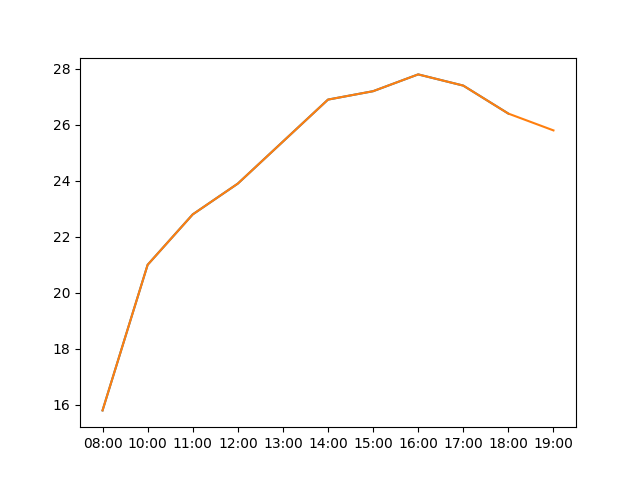
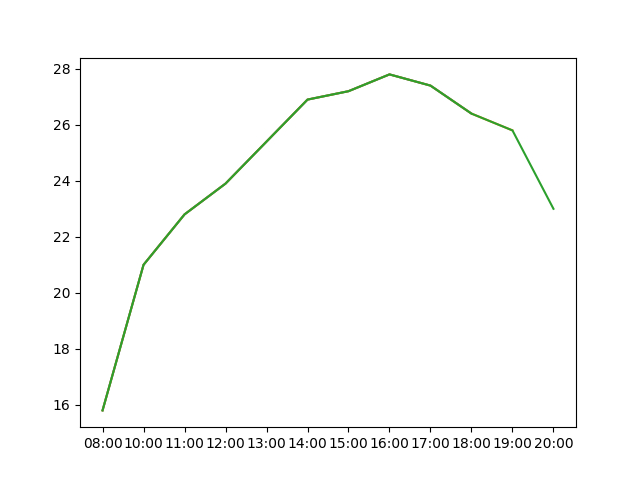
'updated'

diff --git a/index.html b/index.html
@@ -1,2 +1,2 @@
 <img src='graph.png'> 
-<table border="1"><tr><th>data</th><td><table border="1"><thead><tr><th>date</th><th>hour</th><th>weather</th><th>visibility</th><th>temp</th><th>unk</th><th>humidity</th><th>wind</th><th>pressure</th></tr></thead><tbody><tr><td>03-Abril-2021</td><td>08:00</td><td>Algo nublado con banco delgado de niebla</td><td>8 km</td><td>15.8</td><td>No se calcula</td><td>92.0</td><td>Sur  3</td><td>1014.5</td></tr><tr><td>03-Abril-2021</td><td>10:00</td><td>Despejado</td><td>15 km</td><td>21.0</td><td>No se calcula</td><td>71.0</td><td>Noreste  11</td><td>1014.8</td></tr><tr><td>03-Abril-2021</td><td>11:00</td><td>Despejado</td><td>15 km</td><td>22.8</td><td>No se calcula</td><td>66.0</td><td>Este  5</td><td>1014.6</td></tr><tr><td>03-Abril-2021</td><td>12:00</td><td>Algo nublado</td><td>15 km</td><td>23.9</td><td>No se calcula</td><td>61.0</td><td>Noreste  7</td><td>1014.2</td></tr><tr><td>03-Abril-2021</td><td>13:00</td><td>Algo nublado</td><td>15 km</td><td>25.4</td><td>No se calcula</td><td>55.0</td><td>Este  5</td><td>1013.6</td></tr><tr><td>03-Abril-2021</td><td>14:00</td><td>Algo nublado</td><td>15 km</td><td>26.9</td><td>27.3</td><td>49.0</td><td>Noreste  5</td><td>1012.8</td></tr><tr><td>03-Abril-2021</td><td>15:00</td><td>Algo nublado</td><td>15 km</td><td>27.2</td><td>26.4</td><td>42.0</td><td>Noreste  13</td><td>1012.0</td></tr><tr><td>03-Abril-2021</td><td>16:00</td><td>Algo nublado</td><td>15 km</td><td>27.8</td><td>No se calcula</td><td>36.0</td><td>Sudeste  9</td><td>1011.4</td></tr><tr><td>03-Abril-2021</td><td>17:00</td><td>Algo nublado</td><td>15 km</td><td>27.4</td><td>No se calcula</td><td>38.0</td><td>Este  7</td><td>1011.3</td></tr><tr><td>03-Abril-2021</td><td>18:00</td><td>Despejado</td><td>15 km</td><td>26.4</td><td>No se calcula</td><td>39.0</td><td>Sur  9</td><td>1011.3</td></tr><tr><td>03-Abril-2021</td><td>19:00</td><td>Despejado</td><td>15 km</td><td>25.8</td><td>No se calcula</td><td>43.0</td><td>Calma</td><td>1011.4</td></tr></tbody></table></td></tr></table>
+<table border="1"><tr><th>data</th><td><table border="1"><thead><tr><th>date</th><th>hour</th><th>weather</th><th>visibility</th><th>temp</th><th>unk</th><th>humidity</th><th>wind</th><th>pressure</th></tr></thead><tbody><tr><td>03-Abril-2021</td><td>08:00</td><td>Algo nublado con banco delgado de niebla</td><td>8 km</td><td>15.8</td><td>No se calcula</td><td>92.0</td><td>Sur  3</td><td>1014.5</td></tr><tr><td>03-Abril-2021</td><td>10:00</td><td>Despejado</td><td>15 km</td><td>21.0</td><td>No se calcula</td><td>71.0</td><td>Noreste  11</td><td>1014.8</td></tr><tr><td>03-Abril-2021</td><td>11:00</td><td>Despejado</td><td>15 km</td><td>22.8</td><td>No se calcula</td><td>66.0</td><td>Este  5</td><td>1014.6</td></tr><tr><td>03-Abril-2021</td><td>12:00</td><td>Algo nublado</td><td>15 km</td><td>23.9</td><td>No se calcula</td><td>61.0</td><td>Noreste  7</td><td>1014.2</td></tr><tr><td>03-Abril-2021</td><td>13:00</td><td>Algo nublado</td><td>15 km</td><td>25.4</td><td>No se calcula</td><td>55.0</td><td>Este  5</td><td>1013.6</td></tr><tr><td>03-Abril-2021</td><td>14:00</td><td>Algo nublado</td><td>15 km</td><td>26.9</td><td>27.3</td><td>49.0</td><td>Noreste  5</td><td>1012.8</td></tr><tr><td>03-Abril-2021</td><td>15:00</td><td>Algo nublado</td><td>15 km</td><td>27.2</td><td>26.4</td><td>42.0</td><td>Noreste  13</td><td>1012.0</td></tr><tr><td>03-Abril-2021</td><td>16:00</td><td>Algo nublado</td><td>15 km</td><td>27.8</td><td>No se calcula</td><td>36.0</td><td>Sudeste  9</td><td>1011.4</td></tr><tr><td>03-Abril-2021</td><td>17:00</td><td>Algo nublado</td><td>15 km</td><td>27.4</td><td>No se calcula</td><td>38.0</td><td>Este  7</td><td>1011.3</td></tr><tr><td>03-Abril-2021</td><td>18:00</td><td>Despejado</td><td>15 km</td><td>26.4</td><td>No se calcula</td><td>39.0</td><td>Sur  9</td><td>1011.3</td></tr><tr><td>03-Abril-2021</td><td>19:00</td><td>Despejado</td><td>15 km</td><td>25.8</td><td>No se calcula</td><td>43.0</td><td>Calma</td><td>1011.4</td></tr><tr><td>03-Abril-2021</td><td>20:00</td><td>Despejado</td><td>15 km</td><td>23.0</td><td>No se calcula</td><td>58.0</td><td>Sur  5</td><td>1011.8</td></tr></tbody></table></td></tr></table>
